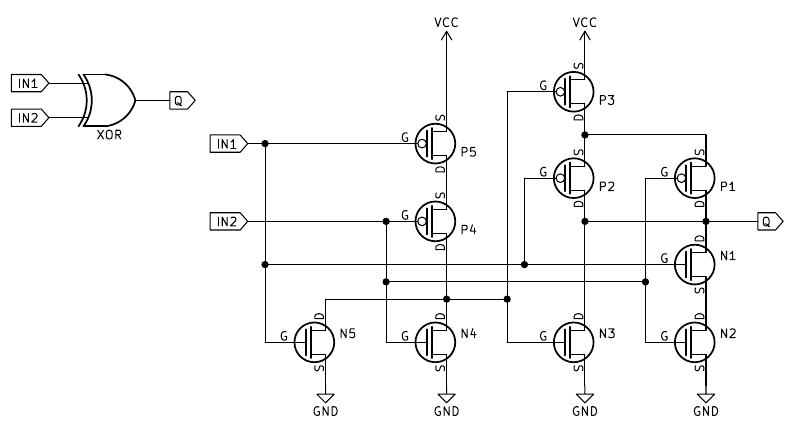
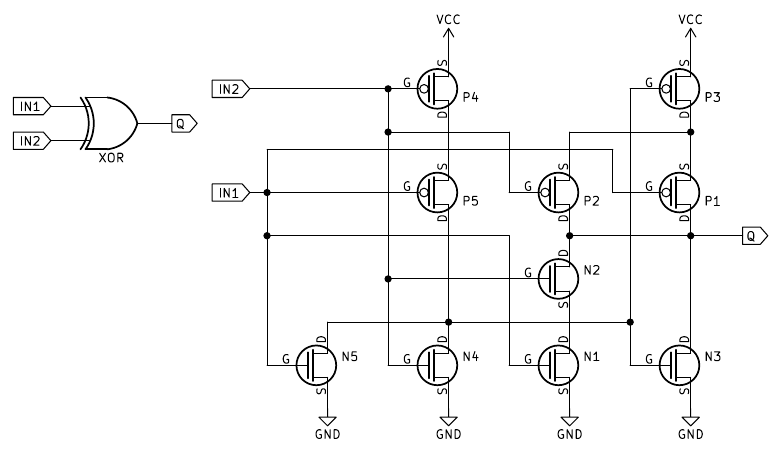
Add layout for XOR and XNOR cells

diff --git a/doc/dmg_cells.html b/doc/dmg_cells.html
@@ -2482,6 +2482,7 @@ all documented once and for all, to make life easier!</p>
 <td>Outputs <code>!(IN1 ^ IN2)</code>.</td></tr>
 </table></td></tr>
 </table>
+<p><img src="img/cells/xnor_layout.png" alt=""></p>
 <p><img src="img/cells/xnor_cmos.png" alt=""></p>
 <p>Instances:
 <a href="/dmg_cpu_b_map/?view=hura">HURA</a>
@@ -2518,6 +2519,7 @@ all documented once and for all, to make life easier!</p>
 <td>Outputs <code>(IN1 ^ IN2)</code>.</td></tr>
 </table></td></tr>
 </table>
+<p><img src="img/cells/xor_layout.png" alt=""></p>
 <p><img src="img/cells/xor_cmos.png" alt=""></p>
 <p>Instances:
 <a href="/dmg_cpu_b_map/?view=bahu">BAHU</a>
